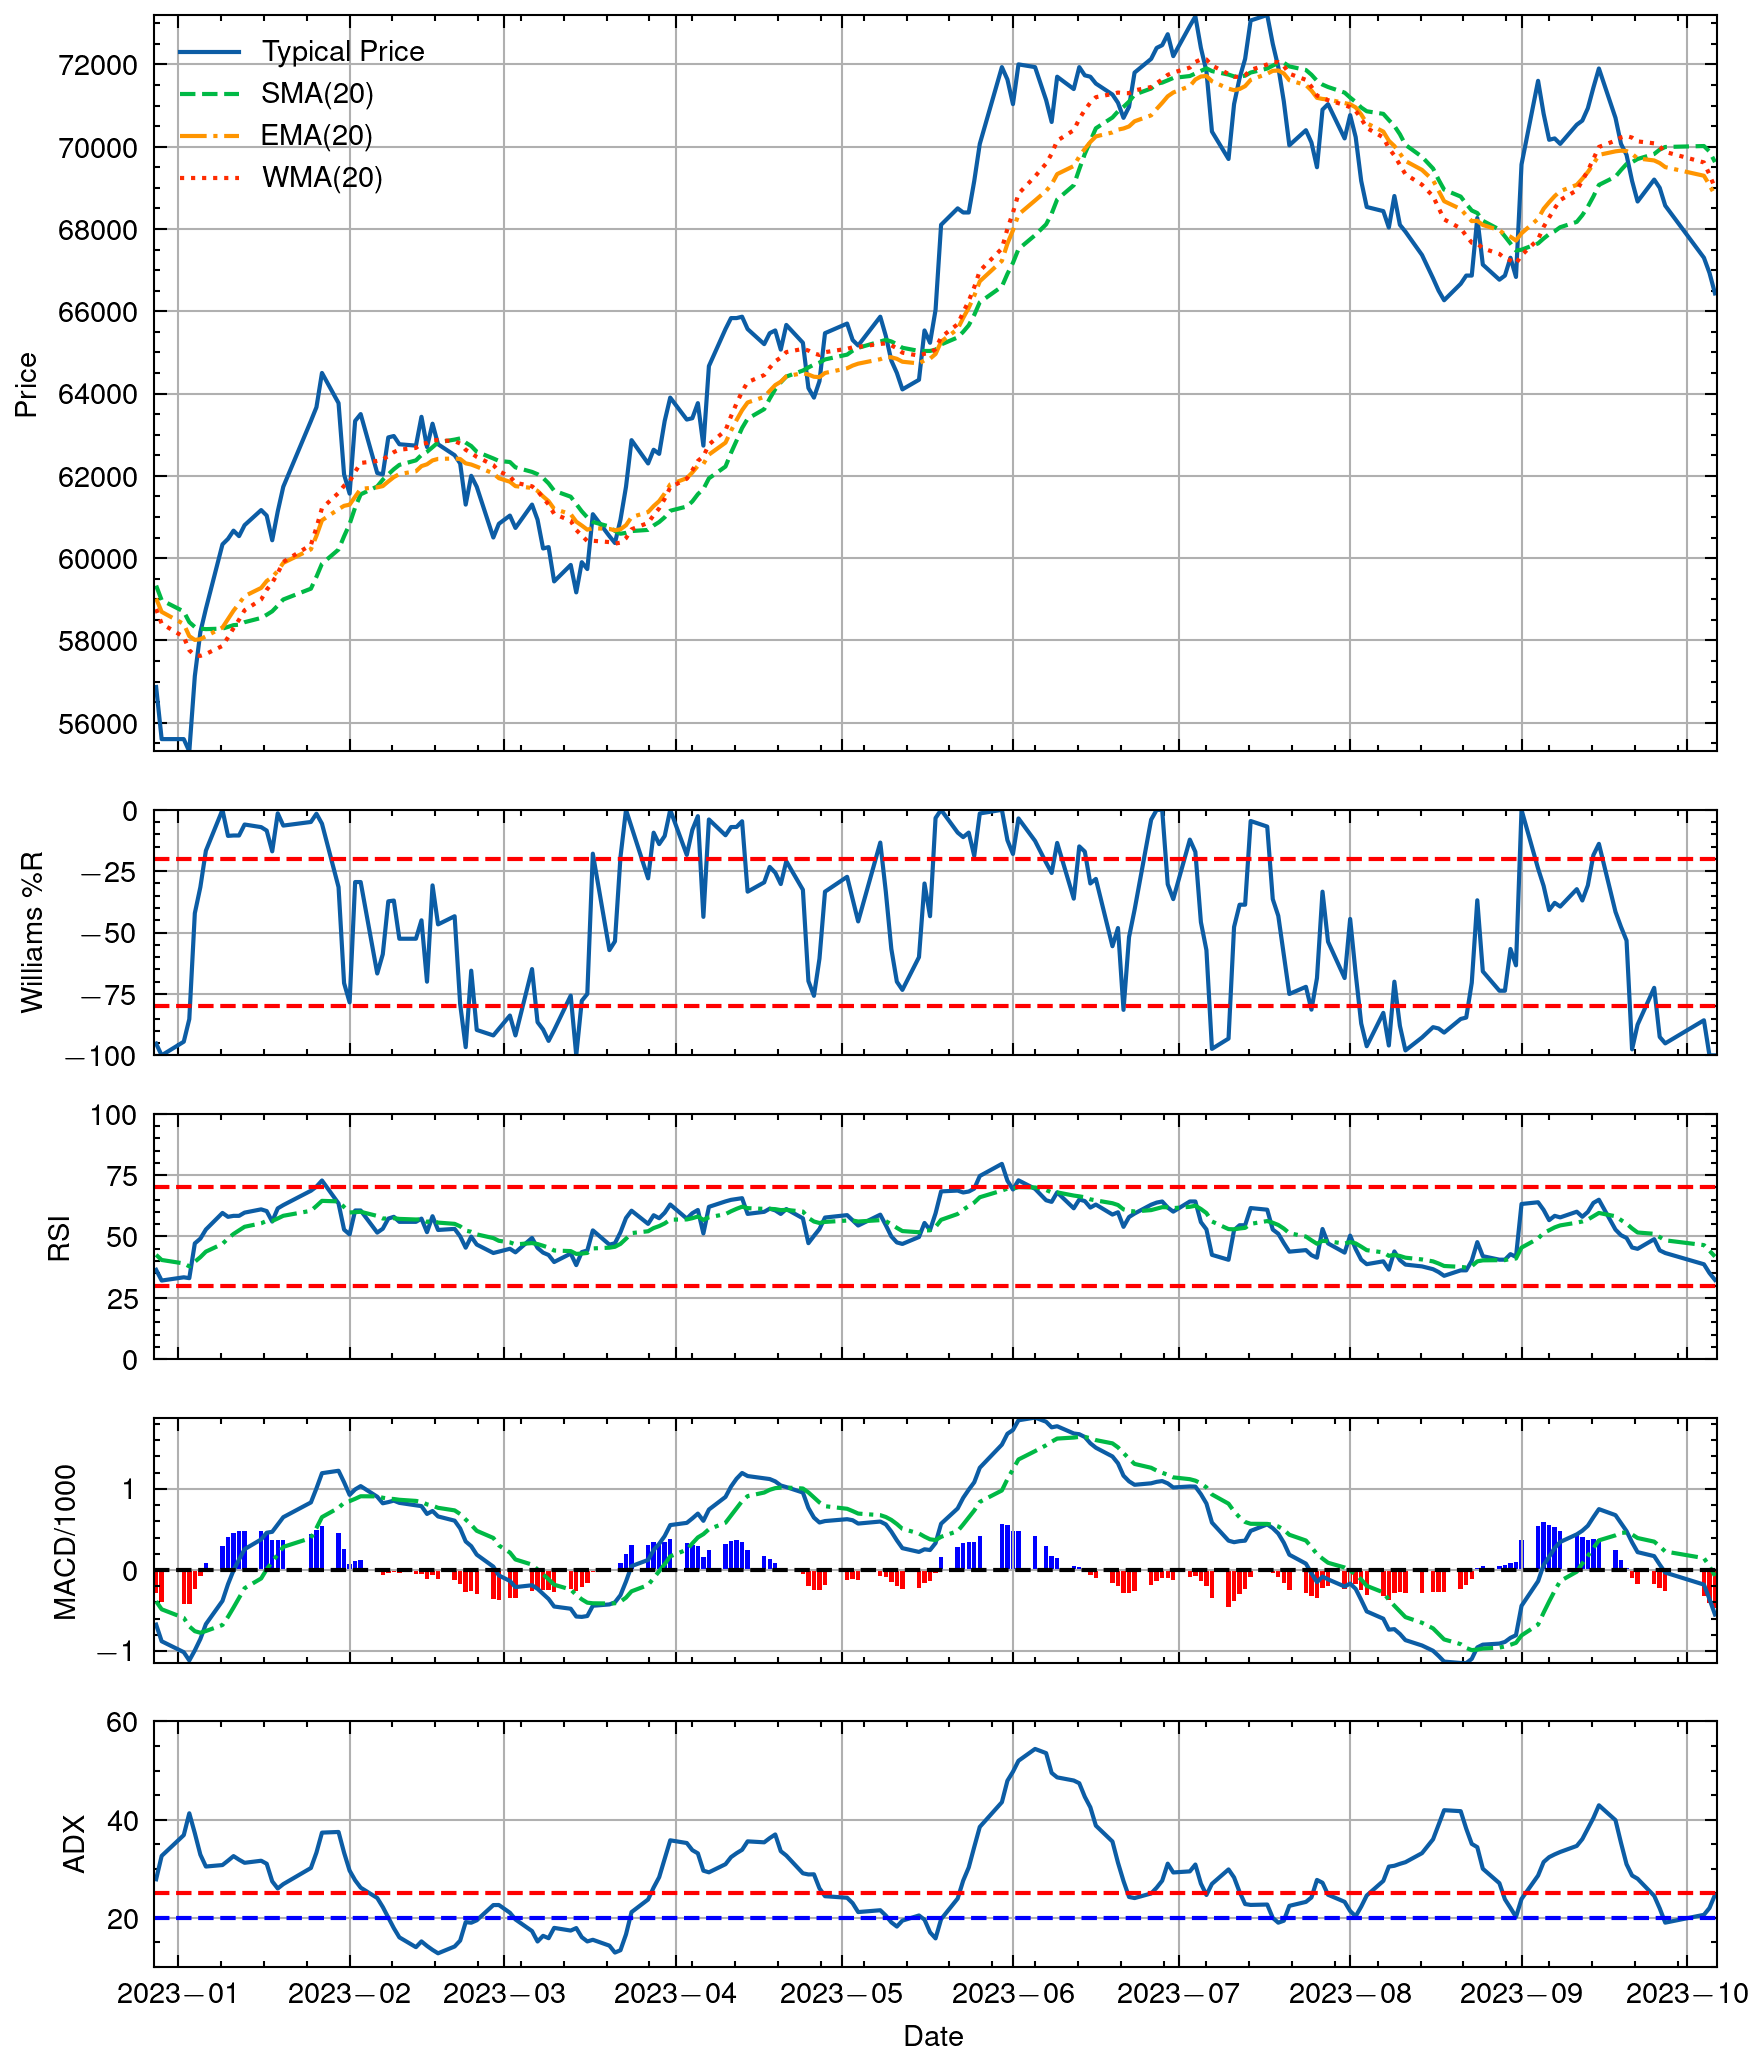
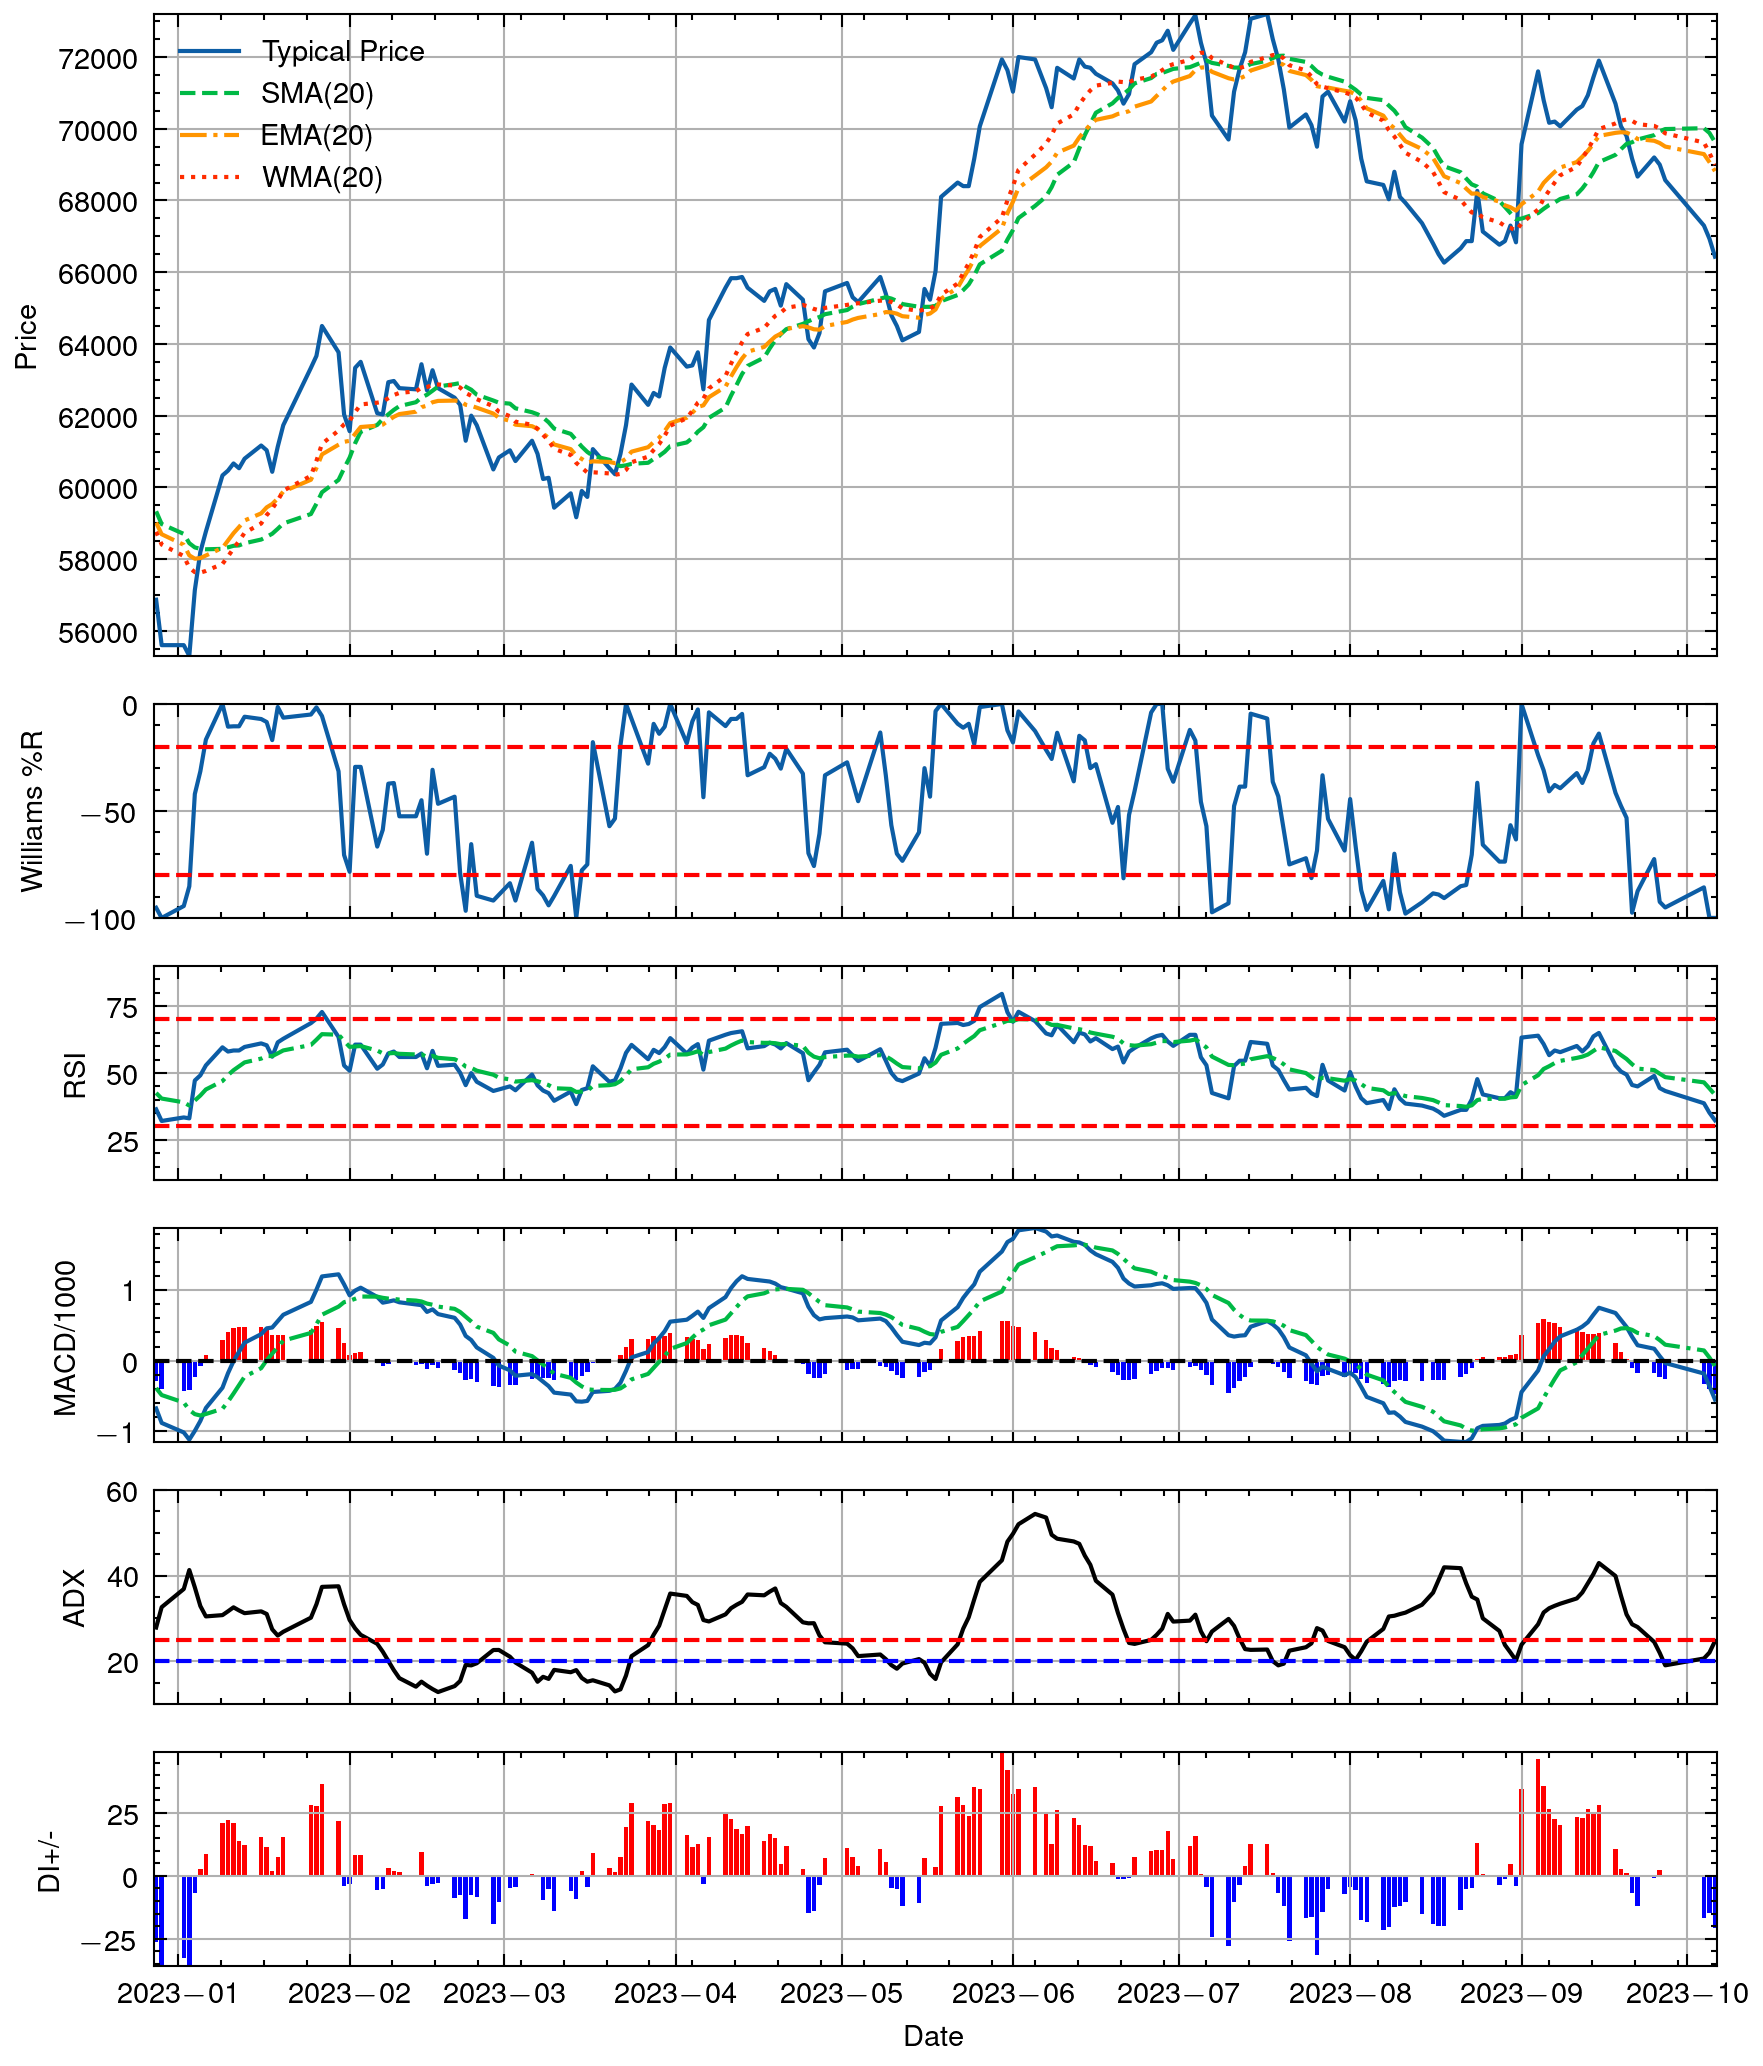
Implement DMI

diff --git a/script/ta_plot.py b/script/ta_plot.py
@@ -20,11 +20,13 @@ rsi_signal = df['rsi_signal']
 macd = df['macd'] / 1000
 macd_signal = df['macd_signal'] / 1000
 adx = df['adx']
+di_plus = df['di_plus']
+di_minus = df['di_minus']
 #rsi2 = dg['rsi']
 
 # Plot
 with plt.style.context(["science", "nature"]):
-    fig, axs = plt.subplots(5, 1, figsize=(6, 7), sharex=True, gridspec_kw={'height_ratios': [3, 1, 1, 1, 1]})
+    fig, axs = plt.subplots(6, 1, figsize=(6, 7), sharex=True, gridspec_kw={'height_ratios': [3, 1, 1, 1, 1, 1]})
     axs[0].autoscale(tight=True)
     axs[0].plot(x, tp, label='Typical Price')
     axs[0].plot(x, sma, '--', label='SMA(20)')
@@ -51,7 +53,7 @@ with plt.style.context(["science", "nature"]):
     axs[2].axhline(y=30, color='r', linestyle='--')
     axs[2].axhline(y=70, color='r', linestyle='--')
     axs[2].set_ylabel("RSI")
-    axs[2].set_ylim([0, 100])
+    axs[2].set_ylim([10, 90])
     axs[2].grid(True)
 
     axs[3].autoscale(tight=True)
@@ -63,19 +65,29 @@ with plt.style.context(["science", "nature"]):
     macd_up[macd_up < 0] = np.nan
     macd_down = np.array(macd - macd_signal)
     macd_down[macd_down > 0] = np.nan
-    axs[3].bar(x, macd_up, color='b', width=0.8)
-    axs[3].bar(x, macd_down, color='r', width=0.8)
+    axs[3].bar(x, macd_up, color='r', width=0.8)
+    axs[3].bar(x, macd_down, color='b', width=0.8)
     axs[3].set_ylabel("MACD/1000")
     axs[3].grid(True)
 
     axs[4].autoscale(tight=True)
-    axs[4].plot(x, adx)
+    axs[4].plot(x, adx, 'k')
     axs[4].axhline(y=20, color='b', linestyle='--')
     axs[4].axhline(y=25, color='r', linestyle='--')
-    axs[4].set_xlabel("Date")
     axs[4].set_ylabel("ADX")
     axs[4].set_ylim([10, 60])
     axs[4].grid(True)
+
+    axs[5].autoscale(tight=True)
+    di_up = np.array(di_plus - di_minus)
+    di_up[di_up < 0] = np.nan
+    di_down = np.array(di_plus - di_minus)
+    di_down[di_down > 0] = np.nan
+    axs[5].bar(x, di_up, color='r', width=0.8)
+    axs[5].bar(x, di_down, color='b', width=0.8)
+    axs[5].set_xlabel("Date")
+    axs[5].set_ylabel("DI+/-")
+    axs[5].grid(True)
 
     fig.tight_layout()
     fig.savefig('figs/005930.KS.png', dpi=300, bbox_inches='tight')

diff --git a/src/main.rs b/src/main.rs
@@ -1,6 +1,6 @@
 use peroxide::fuga::*;
 use fmp::api::HistoricalPriceFull;
-use fmp::ta::{sma, ema, wma, williams_r, rsi, macd, adx};
+use fmp::ta::{sma, ema, wma, williams_r, rsi, macd, adx_dmi};
 
 fn main() -> Result<(), Box<dyn std::error::Error>> {
     let api_key_dir = "./api_key.txt";
@@ -27,7 +27,7 @@ fn main() -> Result<(), Box<dyn std::error::Error>> {
     let rsi_signal = ema(&rsi_, 9);
     let macd_ = macd(&close, 12, 26);
     let macd_signal = ema(&macd_, 9);
-    let adx_ = adx(&high, &low, &close, 14);
+    let (adx_, di_plus, di_minus) = adx_dmi(&high, &low, &close, 14);
 
     // Result
     let date = date[240..].to_vec();
@@ -41,6 +41,8 @@ fn main() -> Result<(), Box<dyn std::error::Error>> {
     let macd_ = macd_[240..].to_vec();
     let macd_signal = macd_signal[240..].to_vec();
     let adx_ = adx_[240..].to_vec();
+    let di_plus = di_plus[240..].to_vec();
+    let di_minus = di_minus[240..].to_vec();
 
     let mut dg = DataFrame::new(vec![]);
     dg.push("date", Series::new(date));
@@ -54,6 +56,8 @@ fn main() -> Result<(), Box<dyn std::error::Error>> {
     dg.push("macd", Series::new(macd_));
     dg.push("macd_signal", Series::new(macd_signal));
     dg.push("adx", Series::new(adx_));
+    dg.push("di_plus", Series::new(di_plus));
+    dg.push("di_minus", Series::new(di_minus));
 
     dg.print();
 

diff --git a/src/ta.rs b/src/ta.rs
@@ -134,9 +134,9 @@ pub fn atr(high: &[f64], low: &[f64], close: &[f64], period: usize) -> Vec<f64> 
     atr
 }
 
-/// Average Directional movement Index
+/// Average Directional movement Index & Directional Movement Index
 #[allow(unused_assignments)]
-pub fn adx(high: &[f64], low: &[f64], close: &[f64], period: usize) -> Vec<f64> {
+pub fn adx_dmi(high: &[f64], low: &[f64], close: &[f64], period: usize) -> (Vec<f64>, Vec<f64>, Vec<f64>) {
     let mut up_move = 0f64;
     let mut down_move = 0f64;
     let mut dm_plus = vec![0f64; high.len()];
@@ -181,5 +181,5 @@ pub fn adx(high: &[f64], low: &[f64], close: &[f64], period: usize) -> Vec<f64> 
         .unzip();
 
     let dx = zip_with(|x, y| (x - y).abs() / (x + y), &di_plus, &di_minus);
-    ema(&dx, period).fmap(|x| 100f64 * x)
+    (ema(&dx, period).fmap(|x| 100f64 * x), di_plus, di_minus)
 }
